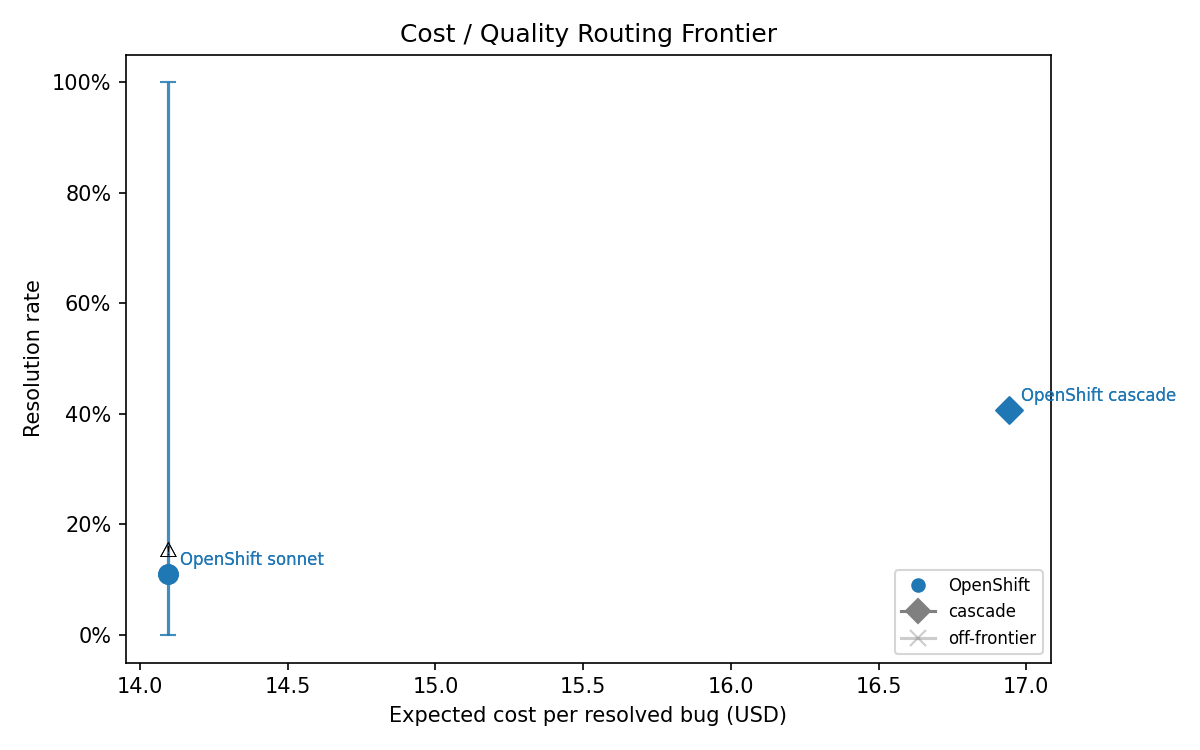
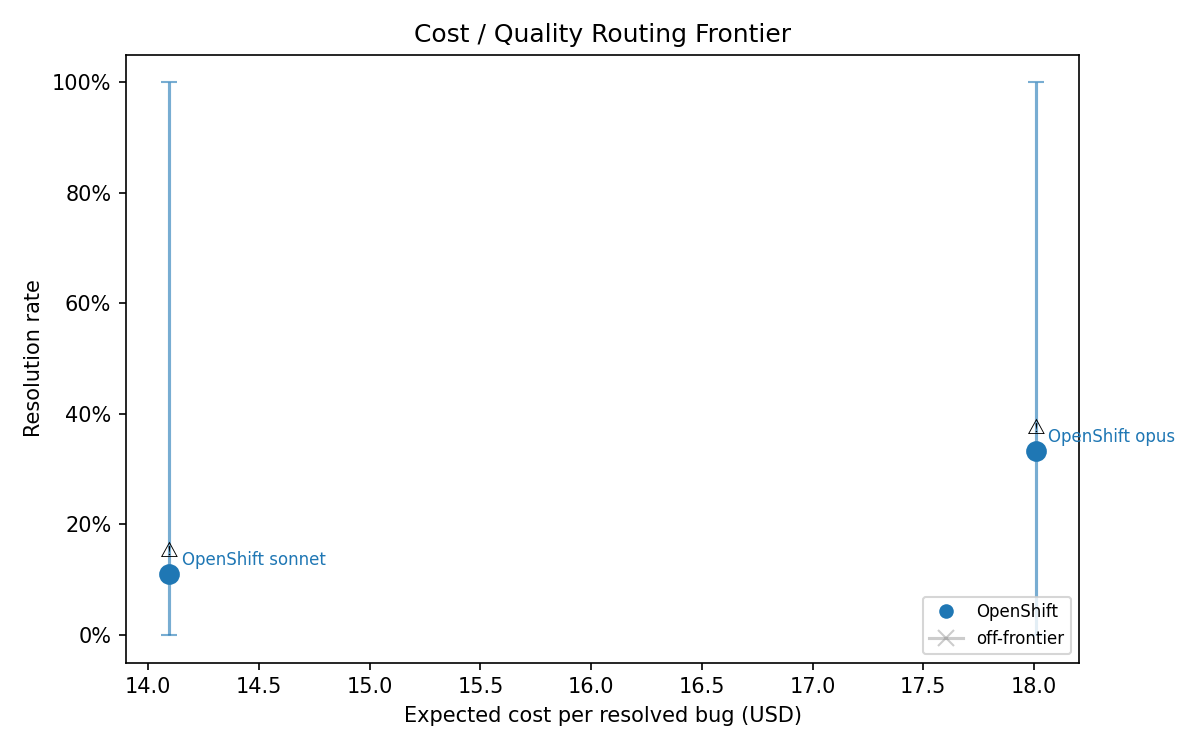
Update results

diff --git a/results/memo.md b/results/memo.md
@@ -7,13 +7,11 @@
 | Label | Tier | Resolution rate | 95% CI | Cost/resolved bug | Underpowered |
 |---|---|---|---|---|---|
 | ★OpenShift sonnet | clean | 11.1% | (0.0%, 100.0%) | $14.09 | ⚠ YES |
+| OpenShift cascade | clean | 11.1% | (11.1%, 11.1%) | $15.33 | no |
 | ★OpenShift cascade | clean | 40.7% | (40.7%, 40.7%) | $16.94 | no |
+| OpenShift cascade | clean | 40.7% | (40.7%, 40.7%) | $17.28 | no |
 | OpenShift opus | clean | 33.3% | (0.0%, 100.0%) | $18.01 | ⚠ YES |
 | OpenShift haiku | clean | 0.0% | (0.0%, 0.0%) | $inf | ⚠ YES |
-| ★OpenShift sonnet | all | 11.1% | (0.0%, 100.0%) | $14.09 | ⚠ YES |
-| ★OpenShift cascade | all | 40.7% | (40.7%, 40.7%) | $16.94 | no |
-| OpenShift opus | all | 33.3% | (0.0%, 100.0%) | $18.01 | ⚠ YES |
-| OpenShift haiku | all | 0.0% | (0.0%, 0.0%) | $inf | ⚠ YES |
 
 ## Do the segments separate?
 
@@ -26,9 +24,6 @@ Only one segment evaluated.
 | OpenShift | clean | claude-haiku-4-5@20251001 | 3 |
 | OpenShift | clean | claude-opus-4-6 | 3 |
 | OpenShift | clean | claude-sonnet-4-6 | 3 |
-| OpenShift | all | claude-haiku-4-5@20251001 | 3 |
-| OpenShift | all | claude-opus-4-6 | 3 |
-| OpenShift | all | claude-sonnet-4-6 | 3 |
 
 ## Power sizing
 
@@ -39,9 +34,6 @@ One or more segments are underpowered. Point estimates from underpowered segment
 | OpenShift | clean | 3 | 260 | 257 | — | — |
 | OpenShift | clean | 3 | 260 | 257 | — | — |
 | OpenShift | clean | 3 | 260 | 257 | — | — |
-| OpenShift | all | 3 | 260 | 257 | — | — |
-| OpenShift | all | 3 | 260 | 257 | — | — |
-| OpenShift | all | 3 | 260 | 257 | — | — |
 
 *(Delta and power level used are set by `--delta` and `--power` in `analyze_runs.py`. Fill in if different from defaults 0.10 / 0.80.)*
 